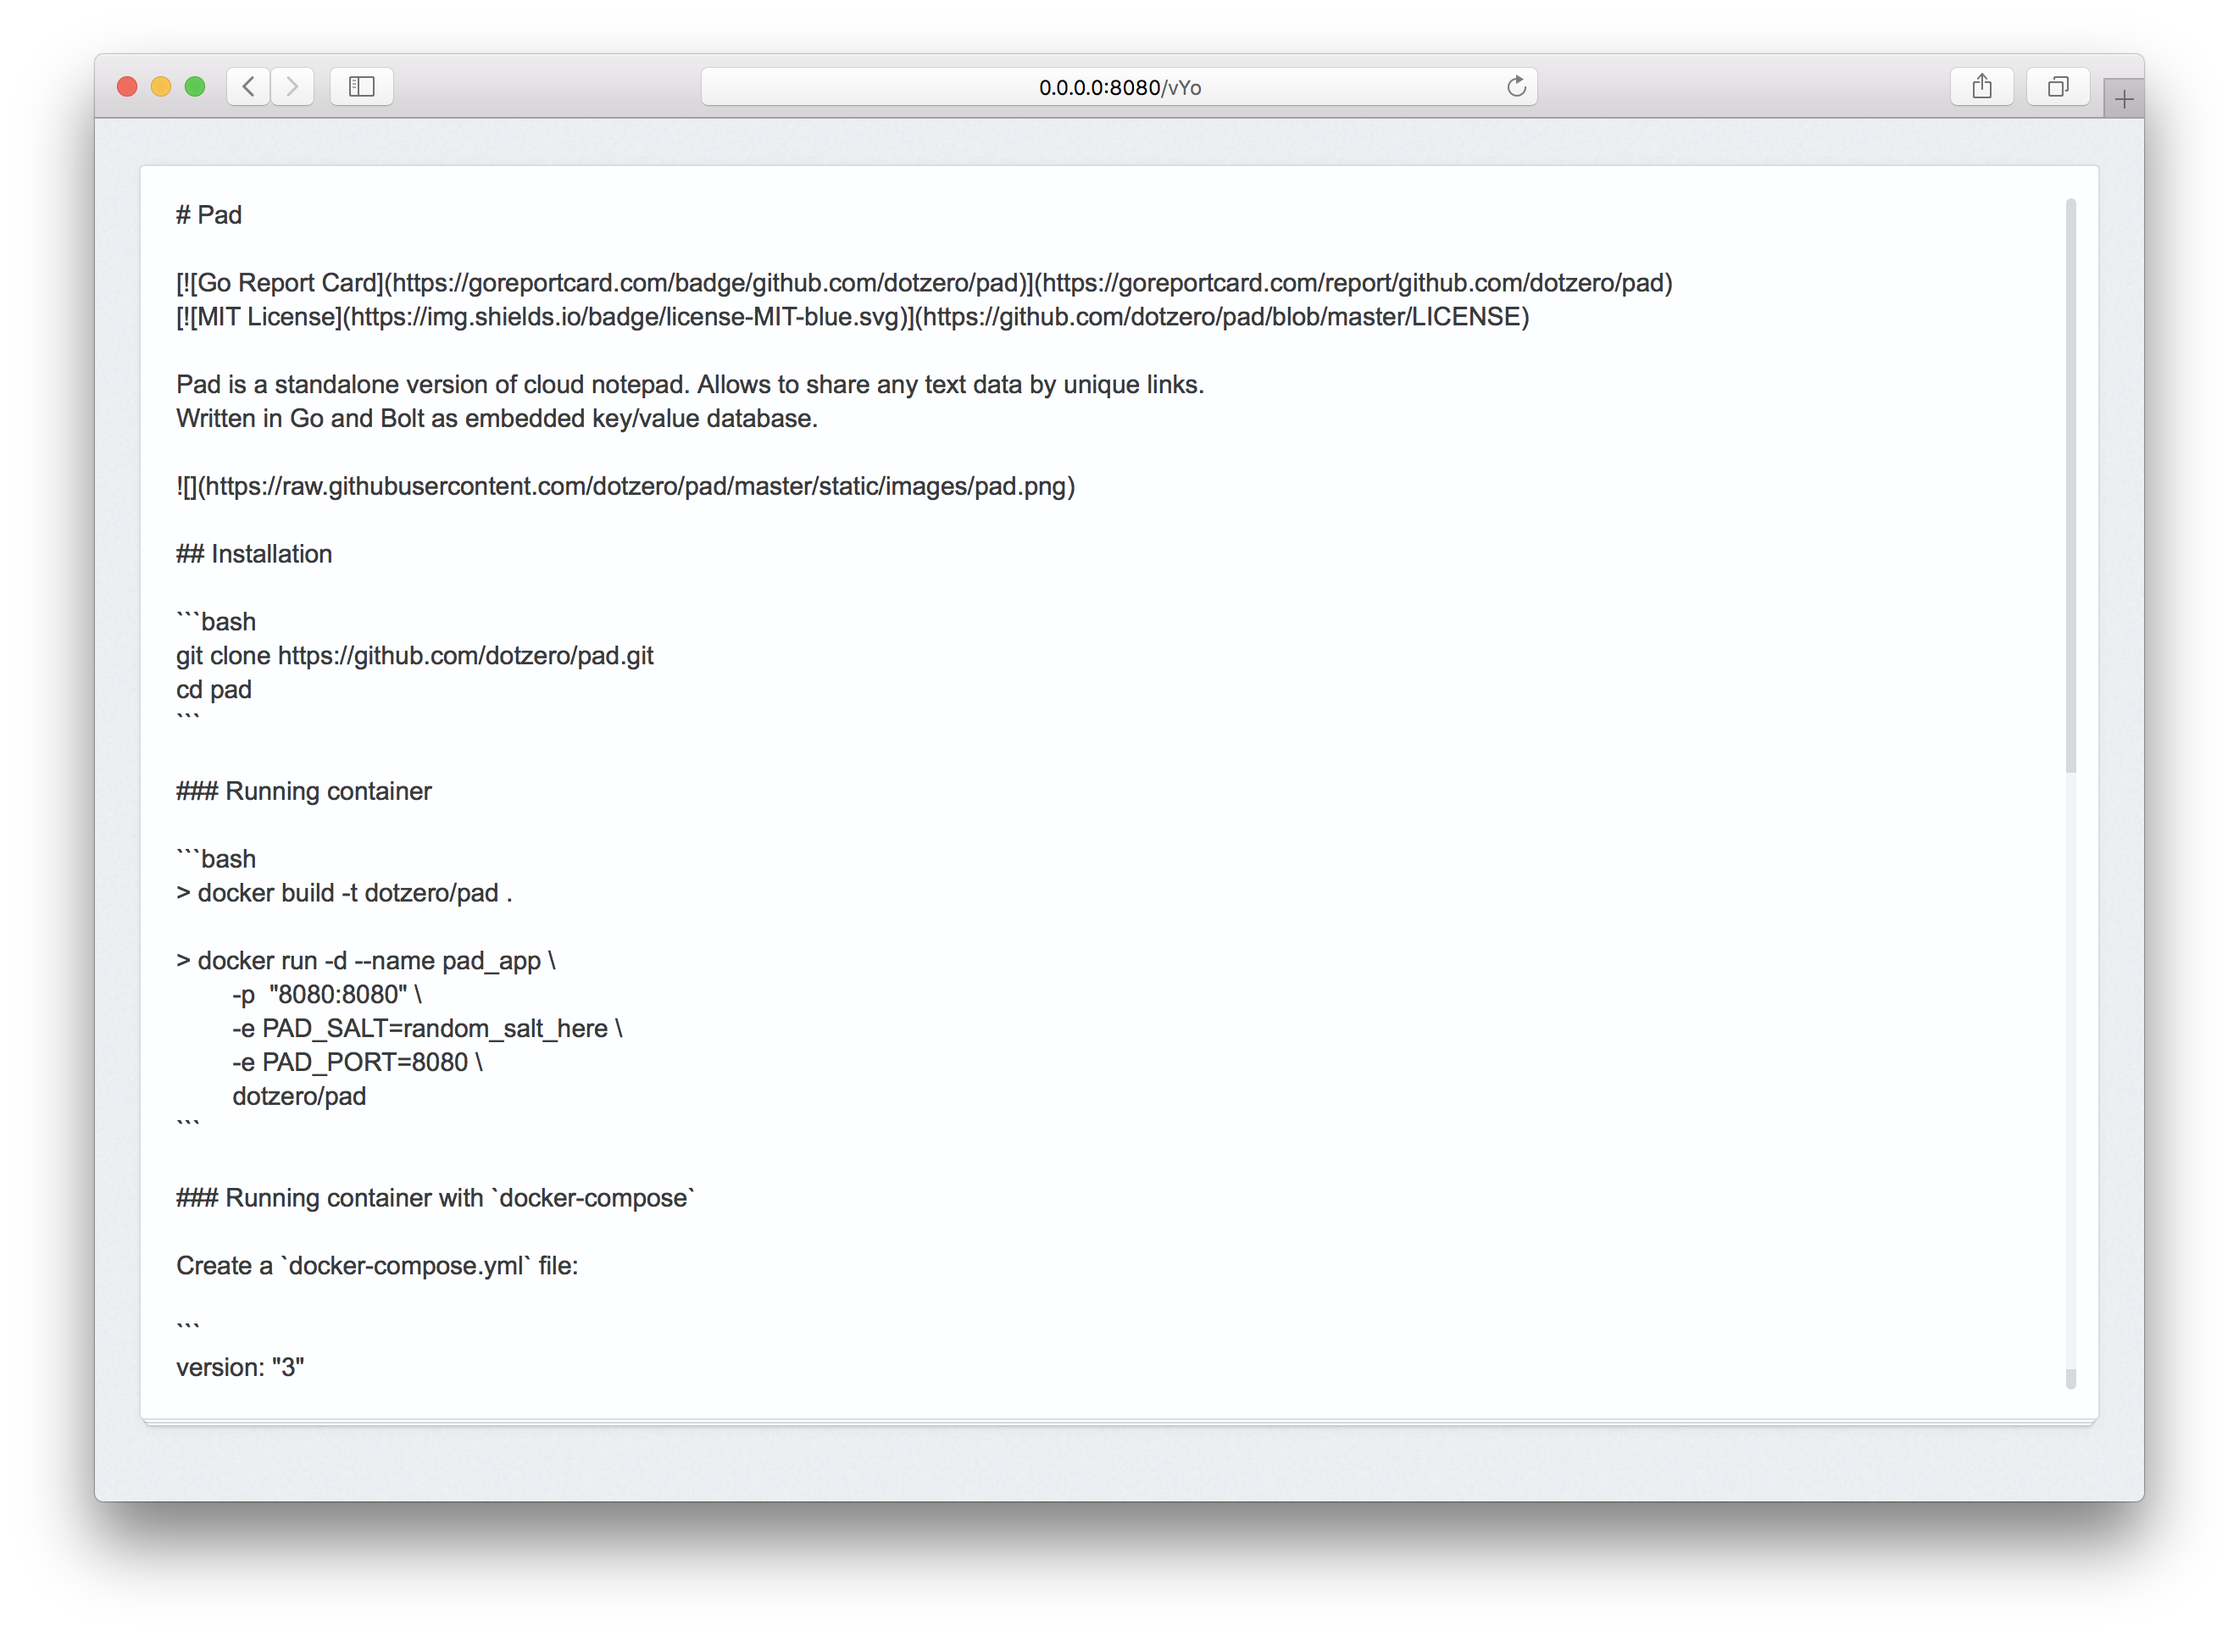
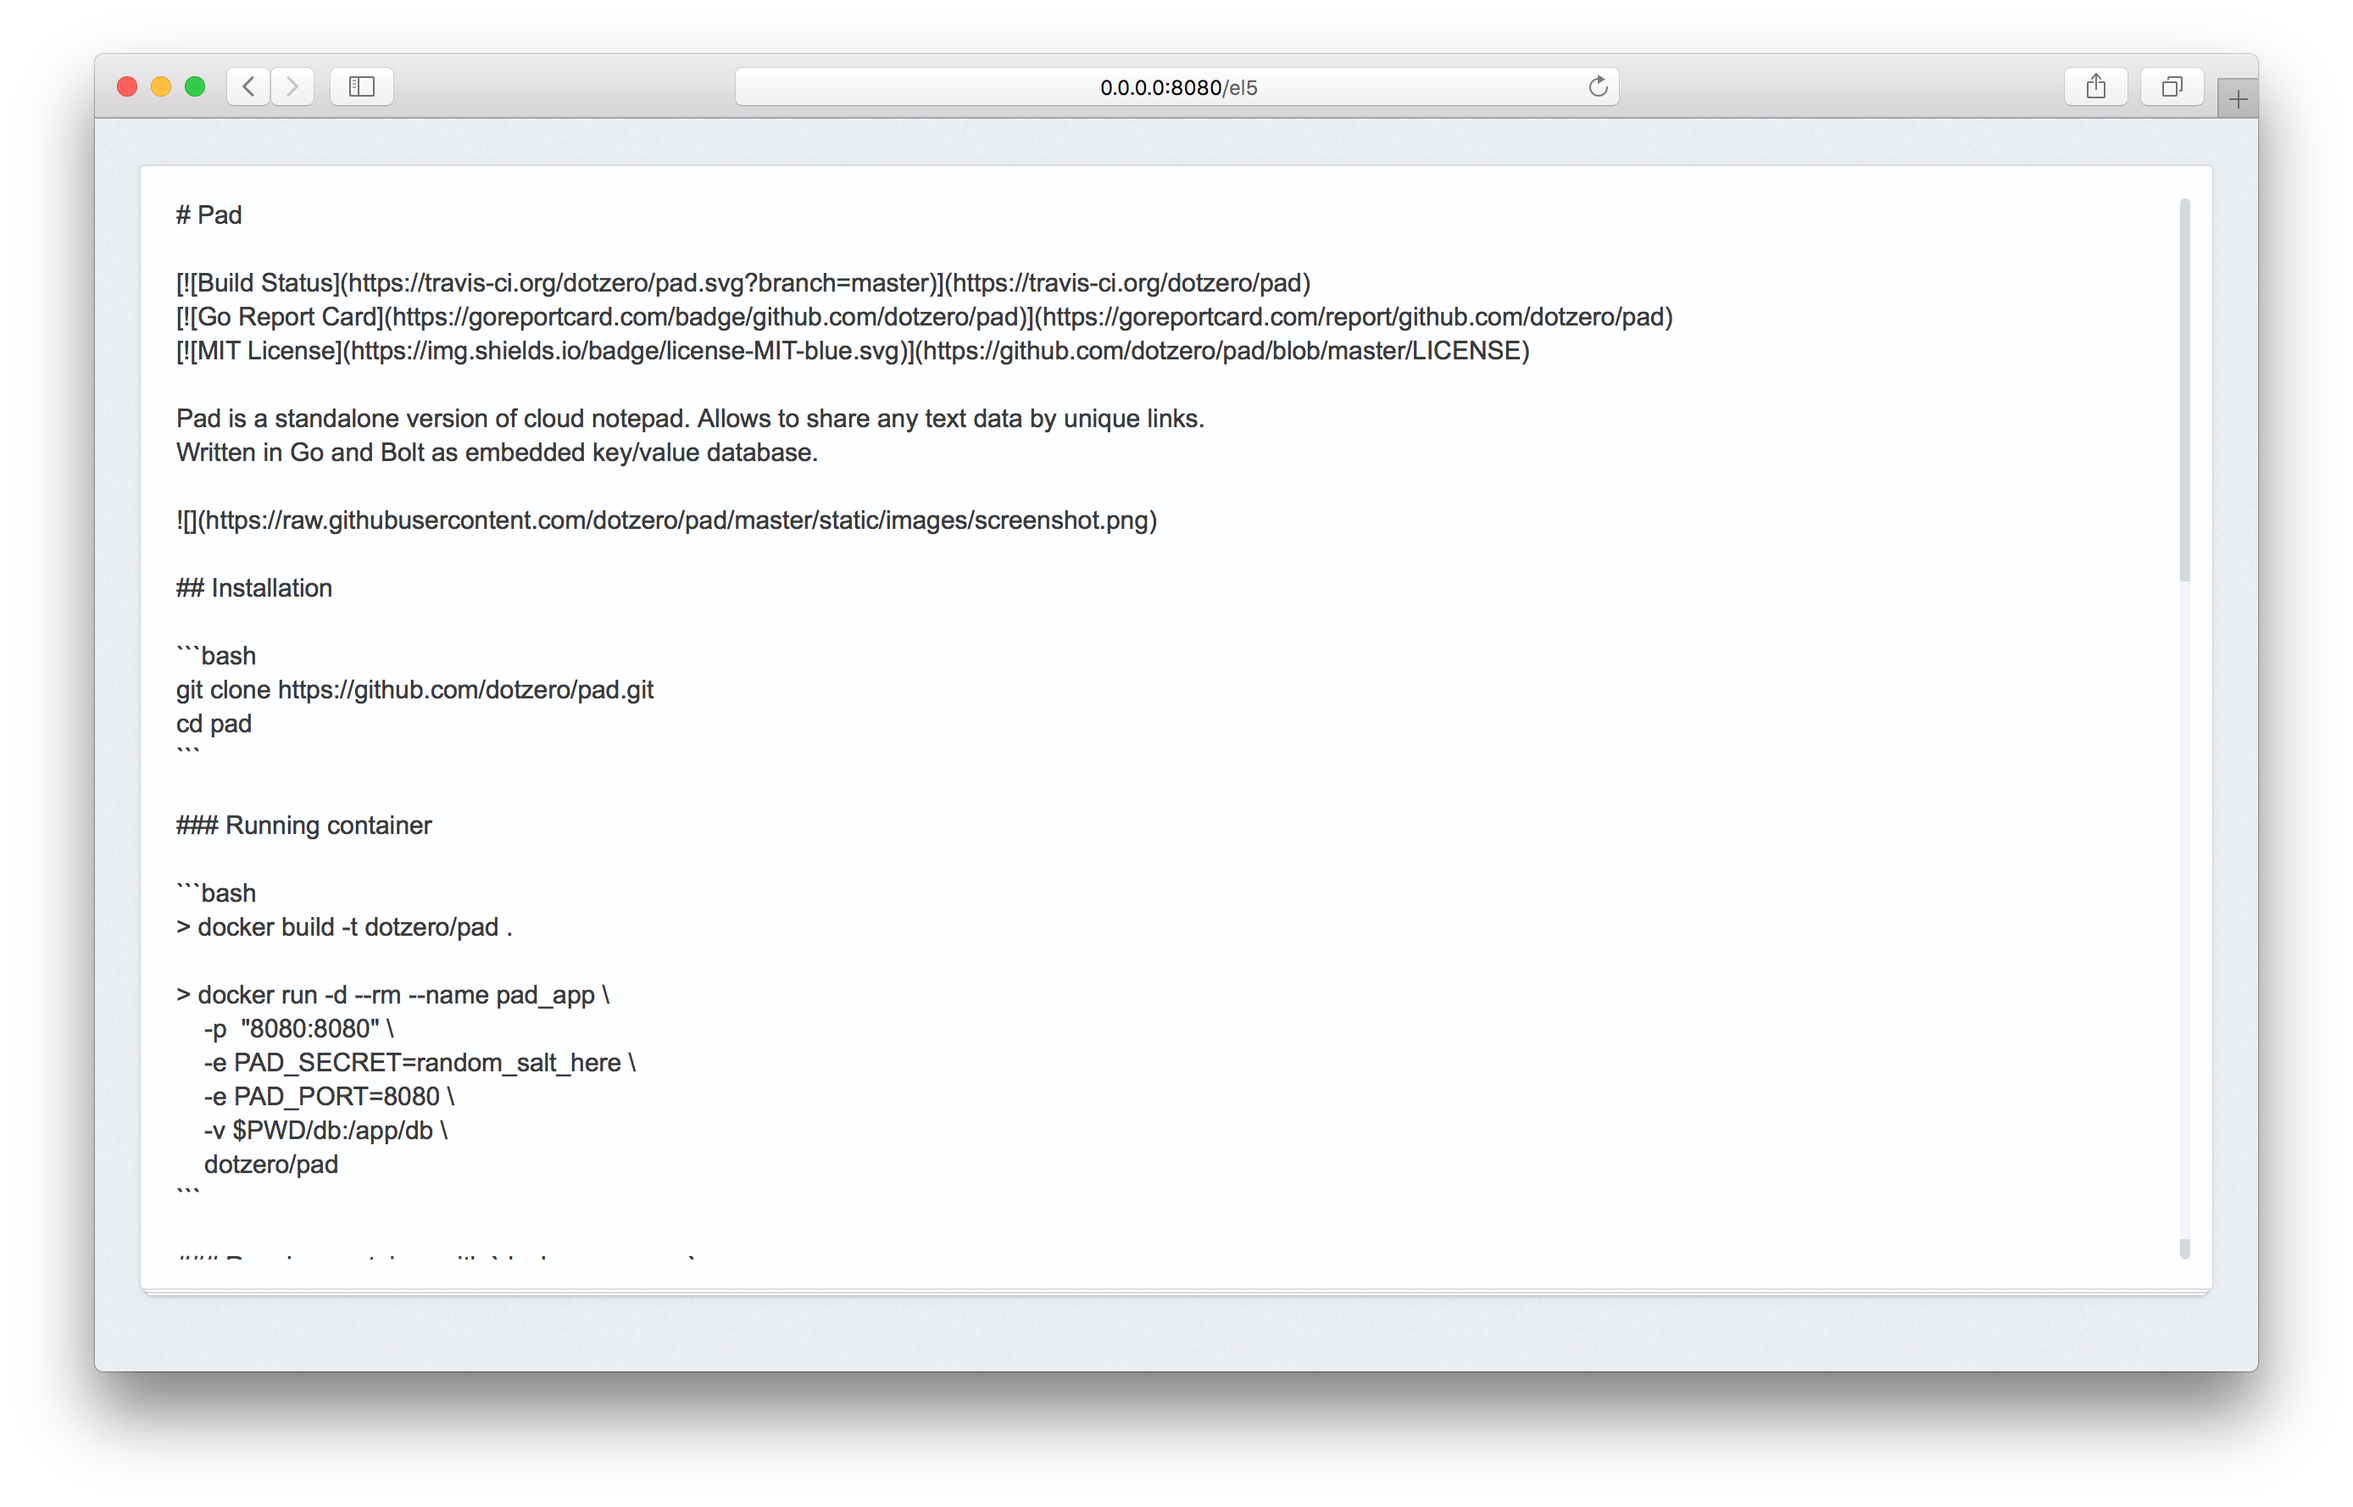
Update readme

diff --git a/README.md b/README.md
@@ -7,7 +7,7 @@
 Pad is a standalone version of cloud notepad. Allows to share any text data by unique links.
 Written in Go and Bolt as embedded key/value database.
 
-![](https://raw.githubusercontent.com/dotzero/pad/master/static/images/screenshot.png)
+![](https://raw.githubusercontent.com/dotzero/pad/master/web/images/screenshot.png)
 
 ## Installation
 
@@ -62,7 +62,7 @@ Path to BoltDB database. It represents a consistent snapshot of your data.
 
 ### PAD_SECRET
 
-* *default:* ``
+* *default:* `empty`
 
 Salt that using to generate hashids. Strongly recommend to replace with your own value.
 
@@ -78,7 +78,7 @@ This port **must** match the port that is exposed via Docker.
 
 ### PAD_PATH
 
-* *default:* `.`
+* *default:* `./web`
 
 Path to web assets, templates and static directories.
 
